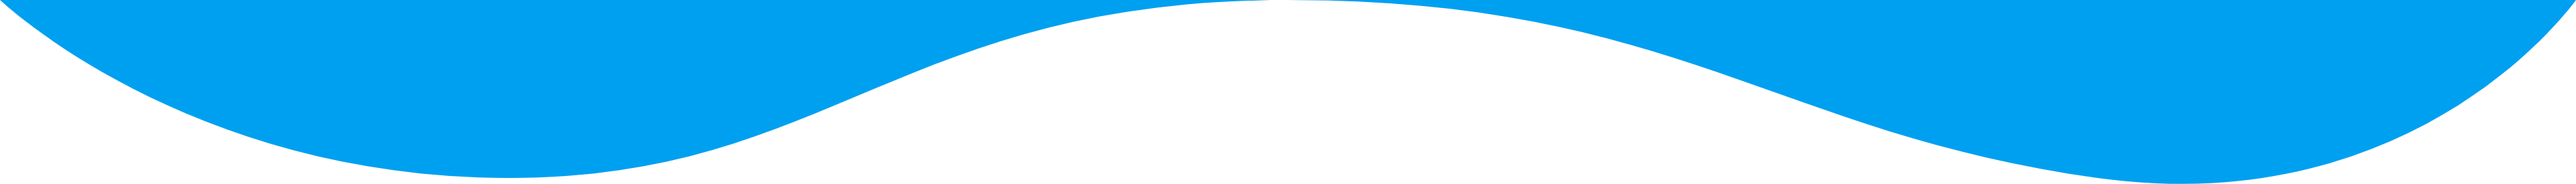
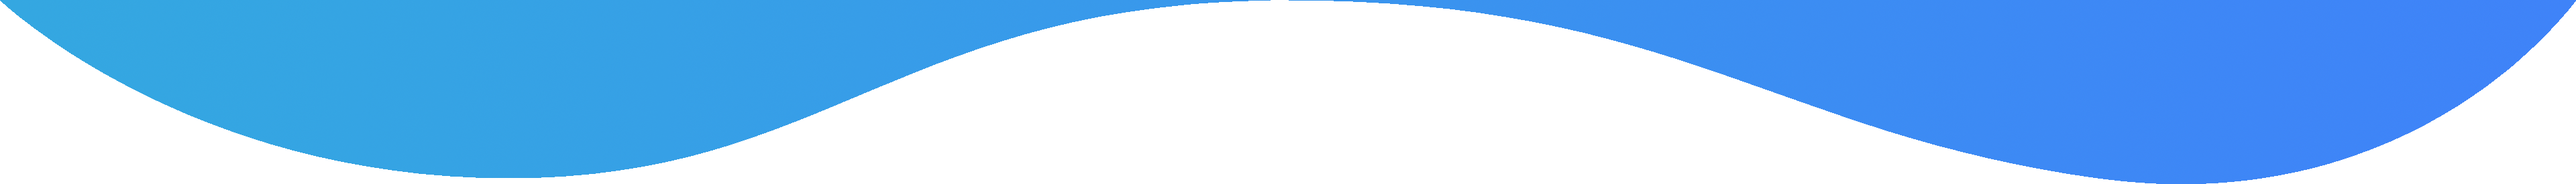
update color of key-visual

diff --git a/themes/generic-dx/layouts/partials/key-visual.html b/themes/generic-dx/layouts/partials/key-visual.html
@@ -1,4 +1,4 @@
-<div id="key-visual" class="bg-gradient-to-b from-sky-500 to-[#01A2EB] relative pb-4 lg:pb-0 after:content-[''] after:bg-[url('../img/bottom-path.png')] after:bg-contain 3xl:after:bg-cover after:bg-no-repeat after:w-full after:h-[137px] after:max-w-[1920px] after:mx-auto after:absolute after:bottom-[-137px] after:left-0 over-size:after:hidden">
+<div id="key-visual" class="bg-gradient-to-r from-[#34A7E1] to-blue-500 relative pb-4 lg:pb-0 after:content-[''] after:bg-[url('../img/bottom-path.png')] after:bg-contain 3xl:after:bg-cover after:bg-no-repeat after:w-full after:h-[137px] after:max-w-[1920px] after:mx-auto after:absolute after:bottom-[-137px] after:left-0 over-size:after:hidden pt-[97px] md:pt-[111px] 3xl:pt-[129px]">
     <div class="max-w-[1920px] mx-auto h-[500px] md:h-auto">
         <div class="pt-1 w-full xl:w-[calc(100%_-_16rem)] 2xl:w-2/3 2xl:mx-auto 3xl:w-[70%]">
            

diff --git a/themes/generic-dx/layouts/partials/header.html b/themes/generic-dx/layouts/partials/header.html
@@ -5,11 +5,11 @@
     {{ $bgColor = "bg-white shadow-xl" }}
     {{ $textColor = "text-black" }}
 {{ else }}
-    {{ $bgColor = "bg-sky-500" }}
+    {{ $bgColor = "bg-transparent" }}
     {{ $textColor = "text-white" }}
 {{ end }}
 
-<header class="{{ $bgColor }} pb-4 pt-8 w-screen" id="header">
+<header class="{{ $bgColor }} pb-4 pt-8 w-screen absolute top-0 left-0 z-10" id="header">
     <div class="max-w-[1920px] w-11/12 md:w-[95%] xl:w-full flex justify-between items-center">
 
         <a href="/landing-pages/generic-dx/" class="inline-block">
